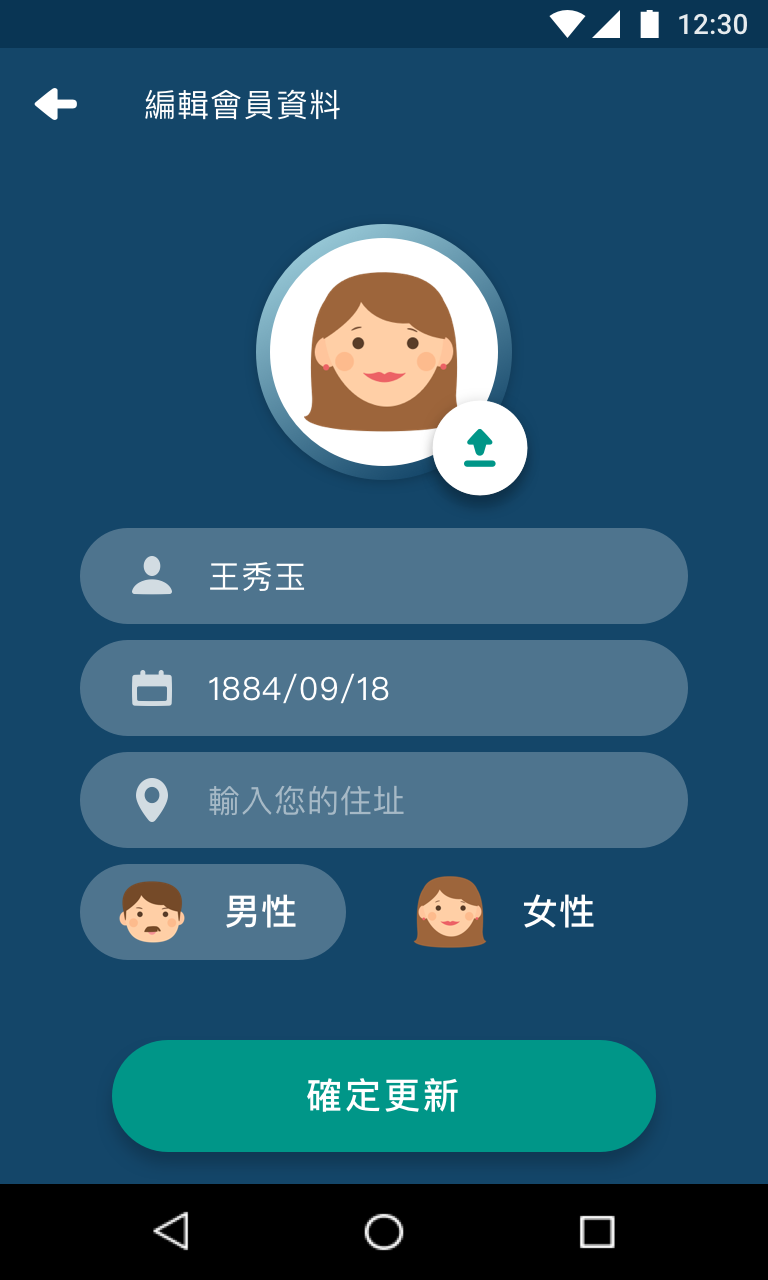
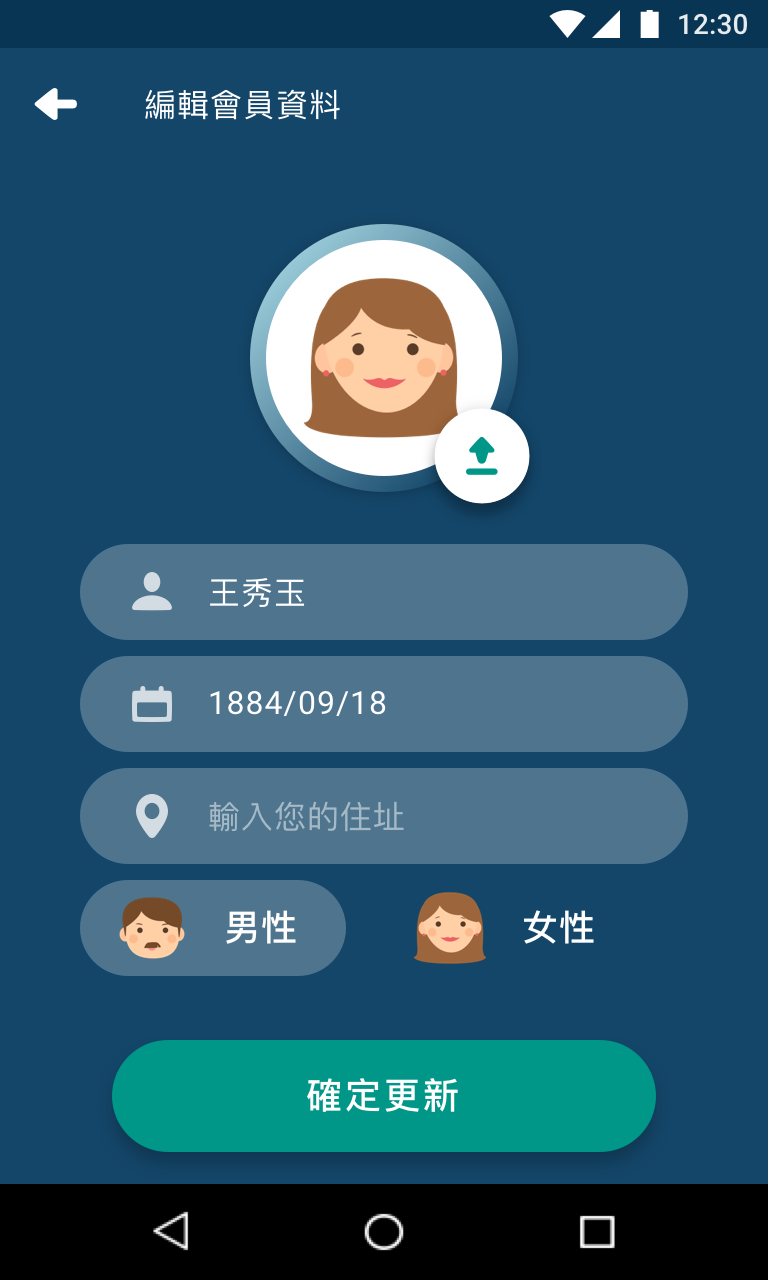
z

Changed region(s): [[0.0938, 0.1875, 0.9062, 0.7812]]

diff --git a/page_user_edituser/index.html b/page_user_edituser/index.html
@@ -1656,7 +1656,7 @@ I18N['zh-tw'] = {
     init.prototype = SMApp.fn;
     window.SMApp = SMApp;
 })(window);
-$(function(){ SMApp({"scale":"1","unit":"px","colorFormat":"color-hex","artboards":[{"layers":[{"objectID":"4908BAA1-B5B5-448D-A6A3-09651A55BB1C","type":"shape","name":"nav_bar","rect":{"x":0,"y":592,"width":384,"height":48},"rotation":0,"radius":0,"borders":[],"fills":[],"shadows":[],"opacity":1,"styleName":""},{"objectID":"4DE1F471-11DC-463F-9694-F1DDB161E0E0","type":"shape","name":"Bg_darkBlue","rect":{"x":0,"y":24,"width":384,"height":568},"rotation":0,"radius":0,"borders":[],"fills":[{"fillType":"color","color":{"r":20,"g":70,"b":105,"a":1,"color-hex":"#144669 100%","argb-hex":"#FF144669","css-rgba":"rgba(20,70,105,1)","ui-color":"(r:0.08 g:0.27 b:0.41 a:1.00)"}}],"shadows":[],"opacity":1,"styleName":"","css":["background: #144669;"]},{"objectID":"A15F91AF-730A-4074-A24E-D45C4149D91A","type":"symbol","name":"Bar/Header","rect":{"x":0,"y":24,"width":384,"height":56},"rotation":0,"radius":0,"borders":[],"fills":[],"shadows":[],"opacity":1,"styleName":""},{"objectID":"F7567344-B48B-42DA-A3CC-50CE141C64CD","type":"shape","name":"bg","rect":{"x":0,"y":24,"width":384,"height":56},"rotation":0,"radius":0,"borders":[],"fills":[{"fillType":"color","color":{"r":20,"g":70,"b":105,"a":1,"color-hex":"#144669 100%","argb-hex":"#FF144669","css-rgba":"rgba(20,70,105,1)","ui-color":"(r:0.08 g:0.27 b:0.41 a:1.00)"}}],"shadows":[],"opacity":1,"styleName":"","css":["background: #144669;"]},{"objectID":"583EEB53-0298-4464-92ED-E6D612EDCB21","type":"symbol","name":"Icon/menu","rect":{"x":16,"y":40,"width":24,"height":24},"rotation":0,"radius":0,"borders":[],"fills":[],"shadows":[],"opacity":1,"styleName":"","exportable":[{"name":"Icon/back","format":"png","path":"Icon/back.png"}]},{"objectID":"CC57C13F-2C1C-4E02-B459-765E72797C45","type":"text","name":"Title","rect":{"x":72,"y":40,"width":107.3,"height":24},"rotation":0,"radius":0,"borders":[],"fills":[],"shadows":[],"opacity":1,"styleName":"White/16px regular","content":"編輯會員資料","color":{"r":255,"g":255,"b":255,"a":1,"color-hex":"#FFFFFF 100%","argb-hex":"#FFFFFFFF","css-rgba":"rgba(255,255,255,1)","ui-color":"(r:1.00 g:1.00 b:1.00 a:1.00)"},"fontSize":16,"fontFace":"Roboto-Regular","textAlign":"left","letterSpacing":0.5,"lineHeight":24,"css":["font-family: Roboto-Regular;","font-size: 16px;","color: #FFFFFF;","letter-spacing: 0.5px;","line-height: 24px;"]},{"objectID":"1C65E827-1983-494A-9264-26E3A23B5296","type":"shape","name":"Oval 2","rect":{"x":128,"y":112,"width":128,"height":128},"rotation":0,"radius":0,"borders":[{"fillType":"gradient","position":"inside","thickness":7,"gradient":{"type":"linear","from":{"x":0.2105417864799648,"y":0.04347795203830529},"to":{"x":0.751580703257261,"y":0.9338212250992051},"colorStops":[{"color":{"r":154,"g":203,"b":217,"a":1,"color-hex":"#9ACBD9 100%","argb-hex":"#FF9ACBD9","css-rgba":"rgba(154,203,217,1)","ui-color":"(r:0.60 g:0.80 b:0.85 a:1.00)"},"position":0},{"color":{"r":20,"g":70,"b":105,"a":1,"color-hex":"#144669 100%","argb-hex":"#FF144669","css-rgba":"rgba(20,70,105,1)","ui-color":"(r:0.08 g:0.27 b:0.41 a:1.00)"},"position":1}]}}],"fills":[{"fillType":"color","color":{"r":255,"g":255,"b":255,"a":1,"color-hex":"#FFFFFF 100%","argb-hex":"#FFFFFFFF","css-rgba":"rgba(255,255,255,1)","ui-color":"(r:1.00 g:1.00 b:1.00 a:1.00)"}}],"shadows":[{"type":"outer","offsetX":0,"offsetY":1,"blurRadius":6,"spread":0,"color":{"r":0,"g":0,"b":0,"a":0.2,"color-hex":"#000000 20%","argb-hex":"#33000000","css-rgba":"rgba(0,0,0,0.2)","ui-color":"(r:0.00 g:0.00 b:0.00 a:0.20)"}}],"opacity":1,"styleName":"","css":["background: #FFFFFF;","box-shadow: 0 1px 6px 0 rgba(0,0,0,0.20);"]},{"objectID":"92804F20-E81E-4C31-A987-F2984B817F41","type":"slice","name":"avatar_mother copy","rect":{"x":152,"y":136,"width":80,"height":80},"exportable":[{"name":"avatar_mother copy","format":"png","path":"avatar_mother copy.png"}]},{"objectID":"EE8C22F1-2035-4894-B105-F83EACF10202","type":"shape","name":"Oval","rect":{"x":216,"y":200,"width":48,"height":48},"rotation":0,"radius":0,"borders":[{"fillType":"gradient","position":"inside","thickness":0.5,"gradient":{"type":"linear","from":{"x":0.5,"y":0},"to":{"x":0.5,"y":0.9902144451530612},"colorStops":[{"color":{"r":0,"g":0,"b":0,"a":0,"color-hex":"#000000 0%","argb-hex":"#00000000","css-rgba":"rgba(0,0,0,0)","ui-color":"(r:0.00 g:0.00 b:0.00 a:0.00)"},"position":0},{"color":{"r":0,"g":0,"b":0,"a":0.02,"color-hex":"#000000 2%","argb-hex":"#05000000","css-rgba":"rgba(0,0,0,0.02)","ui-color":"(r:0.00 g:0.00 b:0.00 a:0.02)"},"position":0.8},{"color":{"r":0,"g":0,"b":0,"a":0.04,"color-hex":"#000000 4%","argb-hex":"#0A000000","css-rgba":"rgba(0,0,0,0.04)","ui-color":"(r:0.00 g:0.00 b:0.00 a:0.04)"},"position":1}]}},{"fillType":"gradient","position":"inside","thickness":0.5,"gradient":{"type":"linear","from":{"x":0.5,"y":0},"to":{"x":0.5,"y":1},"colorStops":[{"color":{"r":255,"g":255,"b":255,"a":0.12,"color-hex":"#FFFFFF 12%","argb-hex":"#1FFFFFFF","css-rgba":"rgba(255,255,255,0.12)","ui-color":"(r:1.00 g:1.00 b:1.00 a:0.12)"},"position":0},{"color":{"r":255,"g":255,"b":255,"a":0.06,"color-hex":"#FFFFFF 6%","argb-hex":"#0FFFFFFF","css-rgba":"rgba(255,255,255,0.06)","ui-color":"(r:1.00 g:1.00 b:1.00 a:0.06)"},"position":0.2},{"color":{"r":255,"g":255,"b":255,"a":0,"color-hex":"#FFFFFF 0%","argb-hex":"#00FFFFFF","css-rgba":"rgba(255,255,255,0)","ui-color":"(r:1.00 g:1.00 b:1.00 a:0.00)"},"position":1}]}}],"fills":[{"fillType":"color","color":{"r":255,"g":255,"b":255,"a":1,"color-hex":"#FFFFFF 100%","argb-hex":"#FFFFFFFF","css-rgba":"rgba(255,255,255,1)","ui-color":"(r:1.00 g:1.00 b:1.00 a:1.00)"}}],"shadows":[{"type":"outer","offsetX":0,"offsetY":6,"blurRadius":6,"spread":0,"color":{"r":0,"g":0,"b":0,"a":0.24,"color-hex":"#000000 24%","argb-hex":"#3D000000","css-rgba":"rgba(0,0,0,0.24)","ui-color":"(r:0.00 g:0.00 b:0.00 a:0.24)"}},{"type":"outer","offsetX":0,"offsetY":0,"blurRadius":6,"spread":0,"color":{"r":0,"g":0,"b":0,"a":0.12,"color-hex":"#000000 12%","argb-hex":"#1F000000","css-rgba":"rgba(0,0,0,0.12)","ui-color":"(r:0.00 g:0.00 b:0.00 a:0.12)"}}],"opacity":1,"styleName":"","css":["background: #FFFFFF;","box-shadow: 0 0 6px 0 rgba(0,0,0,0.12), 0 6px 6px 0 rgba(0,0,0,0.24);"]},{"objectID":"89DEE2A5-F687-40A7-B832-7523F9C4FF41","type":"symbol","name":"Icon/upload","rect":{"x":230.4,"y":214.4,"width":19.2,"height":19.2},"rotation":0,"radius":0,"borders":[],"fills":[],"shadows":[],"opacity":1,"styleName":"","exportable":[{"name":"Icon/upload","format":"png","path":"Icon/upload.png"}]},{"objectID":"32A176FE-EA24-4100-8755-8492ADAEE674","type":"shape","name":"Bg_selected","rect":{"x":40,"y":432,"width":133,"height":48},"rotation":0,"radius":100,"borders":[],"fills":[{"fillType":"color","color":{"r":255,"g":255,"b":255,"a":0.2499999850988388,"color-hex":"#FFFFFF 25%","argb-hex":"#40FFFFFF","css-rgba":"rgba(255,255,255,0.25)","ui-color":"(r:1.00 g:1.00 b:1.00 a:0.25)"}}],"shadows":[],"opacity":1,"styleName":"","css":["background: rgba(255,255,255,0.25);","border-radius: 100px;"]},{"objectID":"D53CF4A1-F369-45F1-8687-6F057DDEE931","type":"text","name":"男性","rect":{"x":112,"y":444,"width":37,"height":24},"rotation":0,"radius":0,"borders":[],"fills":[],"shadows":[],"opacity":1,"styleName":"","content":"男性","color":{"r":255,"g":255,"b":255,"a":1,"color-hex":"#FFFFFF 100%","argb-hex":"#FFFFFFFF","css-rgba":"rgba(255,255,255,1)","ui-color":"(r:1.00 g:1.00 b:1.00 a:1.00)"},"fontSize":18,"fontFace":"PingFangTC-Medium","textAlign":"left","letterSpacing":0.5,"lineHeight":24,"css":["font-family: PingFangTC-Medium;","font-size: 18px;","color: #FFFFFF;","letter-spacing: 0.5px;","line-height: 24px;"]},{"objectID":"437D31D7-4787-4F90-91BD-768E9DBFBBB4","type":"slice","name":"img_father","rect":{"x":56,"y":436,"width":40,"height":40},"exportable":[{"name":"img_father","format":"png","path":"img_father.png"}]},{"objectID":"530E0CED-8613-4856-BAB1-3BBEC8E55846","type":"shape","name":"Bg_selected","rect":{"x":189,"y":432,"width":133,"height":48},"rotation":0,"radius":100,"borders":[],"fills":[{"fillType":"color","color":{"r":255,"g":255,"b":255,"a":0,"color-hex":"#FFFFFF 0%","argb-hex":"#00FFFFFF","css-rgba":"rgba(255,255,255,0)","ui-color":"(r:1.00 g:1.00 b:1.00 a:0.00)"}}],"shadows":[],"opacity":1,"styleName":"","css":["background: rgba(255,255,255,0.00);","border-radius: 100px;"]},{"objectID":"0EBA7450-27FD-44FF-9669-4F13C617E69A","type":"text","name":"女性","rect":{"x":261,"y":444,"width":37,"height":24},"rotation":0,"radius":0,"borders":[],"fills":[],"shadows":[],"opacity":1,"styleName":"","content":"女性","color":{"r":255,"g":255,"b":255,"a":1,"color-hex":"#FFFFFF 100%","argb-hex":"#FFFFFFFF","css-rgba":"rgba(255,255,255,1)","ui-color":"(r:1.00 g:1.00 b:1.00 a:1.00)"},"fontSize":18,"fontFace":"PingFangTC-Medium","textAlign":"left","letterSpacing":0.5,"lineHeight":24,"css":["font-family: PingFangTC-Medium;","font-size: 18px;","color: #FFFFFF;","letter-spacing: 0.5px;","line-height: 24px;"]},{"objectID":"693B6B83-6463-47B7-ACCB-B9F1AB380A38","type":"slice","name":"img_girl","rect":{"x":205,"y":436,"width":40,"height":40},"exportable":[{"name":"img_girl","format":"png","path":"img_girl.png"}]},{"objectID":"3CF3CC99-B70B-489A-9FE0-0EA36B4CF639","type":"symbol","name":"Input/icon+text/default","rect":{"x":40,"y":264,"width":304,"height":48},"rotation":0,"radius":0,"borders":[],"fills":[],"shadows":[],"opacity":1,"styleName":""},{"objectID":"3B80A1D6-B5AD-4798-BA00-FE5EEF576B4F","type":"shape","name":"Bg_input","rect":{"x":40,"y":264,"width":304,"height":48},"rotation":0,"radius":100,"borders":[],"fills":[{"fillType":"color","color":{"r":255,"g":255,"b":255,"a":0.25,"color-hex":"#FFFFFF 25%","argb-hex":"#40FFFFFF","css-rgba":"rgba(255,255,255,0.25)","ui-color":"(r:1.00 g:1.00 b:1.00 a:0.25)"}}],"shadows":[],"opacity":1,"styleName":"","css":["background: rgba(255,255,255,0.25);","border-radius: 100px;"]},{"objectID":"D501D032-617B-4BA1-92FB-1DF1673D12D8","type":"text","name":"Text_default","rect":{"x":104,"y":276,"width":50,"height":24},"rotation":0,"radius":0,"borders":[],"fills":[],"shadows":[],"opacity":1,"styleName":"","content":"王秀玉","color":{"r":255,"g":255,"b":255,"a":1,"color-hex":"#FFFFFF 100%","argb-hex":"#FFFFFFFF","css-rgba":"rgba(255,255,255,1)","ui-color":"(r:1.00 g:1.00 b:1.00 a:1.00)"},"fontSize":16,"fontFace":"PingFangTC-Regular","textAlign":"left","letterSpacing":0.5,"lineHeight":24,"css":["font-family: PingFangTC-Regular;","font-size: 16px;","color: #FFFFFF;","letter-spacing: 0.5px;","line-height: 24px;"]},{"objectID":"1E2AD092-03B3-434E-8F95-86852CD7C4F4","type":"symbol","name":"Icon/person","rect":{"x":64,"y":276,"width":24,"height":24},"rotation":0,"radius":0,"borders":[],"fills":[],"shadows":[],"opacity":0.75,"styleName":"","css":["opacity: 0.75;"],"exportable":[{"name":"Icon/person","format":"png","path":"Icon/person.png"}]},{"objectID":"3CF3CC99-B70B-489A-9FE0-0EA36B4CF639","type":"symbol","name":"Input/icon+text/default Copy","rect":{"x":40,"y":320,"width":304,"height":48},"rotation":0,"radius":0,"borders":[],"fills":[],"shadows":[],"opacity":1,"styleName":""},{"objectID":"3B80A1D6-B5AD-4798-BA00-FE5EEF576B4F","type":"shape","name":"Bg_input","rect":{"x":40,"y":320,"width":304,"height":48},"rotation":0,"radius":100,"borders":[],"fills":[{"fillType":"color","color":{"r":255,"g":255,"b":255,"a":0.25,"color-hex":"#FFFFFF 25%","argb-hex":"#40FFFFFF","css-rgba":"rgba(255,255,255,0.25)","ui-color":"(r:1.00 g:1.00 b:1.00 a:0.25)"}}],"shadows":[],"opacity":1,"styleName":"","css":["background: rgba(255,255,255,0.25);","border-radius: 100px;"]},{"objectID":"D501D032-617B-4BA1-92FB-1DF1673D12D8","type":"text","name":"Text_default","rect":{"x":104,"y":332,"width":92,"height":24},"rotation":0,"radius":0,"borders":[],"fills":[],"shadows":[],"opacity":1,"styleName":"","content":"1884/09/18","color":{"r":255,"g":255,"b":255,"a":1,"color-hex":"#FFFFFF 100%","argb-hex":"#FFFFFFFF","css-rgba":"rgba(255,255,255,1)","ui-color":"(r:1.00 g:1.00 b:1.00 a:1.00)"},"fontSize":16,"fontFace":"PingFangTC-Regular","textAlign":"left","letterSpacing":0.5,"lineHeight":24,"css":["font-family: PingFangTC-Regular;","font-size: 16px;","color: #FFFFFF;","letter-spacing: 0.5px;","line-height: 24px;"]},{"objectID":"7F0D17CB-E802-4210-AAA2-933E3AF012D9","type":"symbol","name":"Icon/person","rect":{"x":64,"y":332,"width":24,"height":24},"rotation":0,"radius":0,"borders":[],"fills":[],"shadows":[],"opacity":0.75,"styleName":"","css":["opacity: 0.75;"],"exportable":[{"name":"Icon/calender","format":"png","path":"Icon/calender.png"}]},{"objectID":"BF1D3D7E-54DC-400A-88F6-0B673BF03D0D","type":"symbol","name":"Input/icon+text/default Copy 2","rect":{"x":40,"y":376,"width":304,"height":48},"rotation":0,"radius":0,"borders":[],"fills":[],"shadows":[],"opacity":1,"styleName":""},{"objectID":"87D83326-6E0F-4EEA-B312-F28E05B72863","type":"shape","name":"Bg_input","rect":{"x":40,"y":376,"width":304,"height":48},"rotation":0,"radius":100,"borders":[],"fills":[{"fillType":"color","color":{"r":255,"g":255,"b":255,"a":0.25,"color-hex":"#FFFFFF 25%","argb-hex":"#40FFFFFF","css-rgba":"rgba(255,255,255,0.25)","ui-color":"(r:1.00 g:1.00 b:1.00 a:0.25)"}}],"shadows":[],"opacity":1,"styleName":"","css":["background: rgba(255,255,255,0.25);","border-radius: 100px;"]},{"objectID":"B507ECFD-4F80-4E1A-B5AC-7AC48E3BCA7C","type":"text","name":"Text_default","rect":{"x":104,"y":388,"width":99,"height":24},"rotation":0,"radius":0,"borders":[],"fills":[],"shadows":[],"opacity":0.5,"styleName":"","content":"輸入您的住址","color":{"r":255,"g":255,"b":255,"a":1,"color-hex":"#FFFFFF 100%","argb-hex":"#FFFFFFFF","css-rgba":"rgba(255,255,255,1)","ui-color":"(r:1.00 g:1.00 b:1.00 a:1.00)"},"fontSize":16,"fontFace":"Roboto-Regular","textAlign":"left","letterSpacing":0.5,"lineHeight":24,"css":["opacity: 0.5;","font-family: Roboto-Regular;","font-size: 16px;","color: #FFFFFF;","letter-spacing: 0.5px;","line-height: 24px;"]},{"objectID":"FB231F2C-28DD-4E3E-8AAF-1BD6FA3DA07F","type":"symbol","name":"Icon/person","rect":{"x":64,"y":388,"width":24,"height":24},"rotation":0,"radius":0,"borders":[],"fills":[],"shadows":[],"opacity":0.75,"styleName":"","css":["opacity: 0.75;"],"exportable":[{"name":"Icon/address","format":"png","path":"Icon/address.png"}]},{"objectID":"A8AFB92A-E60C-4A13-813F-C15EA00B9C19","type":"symbol","name":"Btn/green","rect":{"x":56,"y":520,"width":272,"height":56},"rotation":0,"radius":0,"borders":[],"fills":[],"shadows":[],"opacity":1,"styleName":""},{"objectID":"0C65FCC8-A735-40E2-A957-7A61A70AAF78","type":"shape","name":"Rectangle 13","rect":{"x":56,"y":520,"width":272,"height":56},"rotation":0,"radius":100,"borders":[],"fills":[{"fillType":"color","color":{"r":0,"g":150,"b":136,"a":1,"color-hex":"#009688 100%","argb-hex":"#FF009688","css-rgba":"rgba(0,150,136,1)","ui-color":"(r:0.00 g:0.59 b:0.53 a:1.00)"}}],"shadows":[{"type":"outer","offsetX":0,"offsetY":6,"blurRadius":8,"spread":0,"color":{"r":0,"g":0,"b":0,"a":0.2,"color-hex":"#000000 20%","argb-hex":"#33000000","css-rgba":"rgba(0,0,0,0.2)","ui-color":"(r:0.00 g:0.00 b:0.00 a:0.20)"}}],"opacity":1,"styleName":"","css":["background: #009688;","box-shadow: 0 6px 8px 0 rgba(0,0,0,0.20);","border-radius: 100px;"]},{"objectID":"56B2AD4A-5A84-451C-91D2-E6EBE92EE7FF","type":"text","name":"繼續下一步","rect":{"x":153,"y":536,"width":78,"height":24},"rotation":0,"radius":0,"borders":[],"fills":[],"shadows":[],"opacity":1,"styleName":"","content":"確定更新","color":{"r":255,"g":255,"b":255,"a":1,"color-hex":"#FFFFFF 100%","argb-hex":"#FFFFFFFF","css-rgba":"rgba(255,255,255,1)","ui-color":"(r:1.00 g:1.00 b:1.00 a:1.00)"},"fontSize":18,"fontFace":"Roboto-Medium","textAlign":"center","letterSpacing":1.5,"lineHeight":24,"css":["font-family: Roboto-Medium;","font-size: 18px;","color: #FFFFFF;","letter-spacing: 1.5px;","line-height: 24px;"]},{"objectID":"1D9038E2-0B4B-4B89-8FD6-5779EE9AC07C","type":"symbol","name":"Bars/Status bar","rect":{"x":0,"y":0,"width":384,"height":24},"rotation":0,"radius":0,"borders":[],"fills":[],"shadows":[],"opacity":1,"styleName":""},{"objectID":"92B9CC3F-C79D-4213-845D-358967D93061","type":"shape","name":"status bar bg","rect":{"x":0,"y":0,"width":384,"height":24},"rotation":0,"radius":0,"borders":[],"fills":[{"fillType":"color","color":{"r":9,"g":53,"b":84,"a":1,"color-hex":"#093554 100%","argb-hex":"#FF093554","css-rgba":"rgba(9,53,84,1)","ui-color":"(r:0.04 g:0.21 b:0.33 a:1.00)"}}],"shadows":[],"opacity":1,"styleName":"","css":["background: #093554;"]},{"objectID":"C721A454-854E-449C-85BC-A123A8EC1018","type":"text","name":"12:30","rect":{"x":338.3,"y":4,"width":36,"height":16},"rotation":0,"radius":0,"borders":[],"fills":[{"fillType":"color","color":{"r":255,"g":255,"b":255,"a":1,"color-hex":"#FFFFFF 100%","argb-hex":"#FFFFFFFF","css-rgba":"rgba(255,255,255,1)","ui-color":"(r:1.00 g:1.00 b:1.00 a:1.00)"}}],"shadows":[],"opacity":1,"styleName":"","content":"12:30","color":{"r":0,"g":0,"b":0,"a":1,"color-hex":"#000000 100%","argb-hex":"#FF000000","css-rgba":"rgba(0,0,0,1)","ui-color":"(r:0.00 g:0.00 b:0.00 a:1.00)"},"fontSize":14,"fontFace":"Roboto-Medium","textAlign":"right","letterSpacing":0,"lineHeight":16,"css":["font-family: Roboto-Medium;","font-size: 14px;","color: #000000;"]},{"objectID":"EA577749-950A-4B95-AE91-1471809E4D5C","type":"shape","name":"bounds","rect":{"x":317.3,"y":4,"width":16,"height":16},"rotation":0,"radius":0,"borders":[],"fills":[],"shadows":[],"opacity":1,"styleName":""},{"objectID":"04509B03-1C82-4E70-A60B-563CB5EFDEED","type":"shape","name":"Shape","rect":{"x":320.3,"y":5,"width":9,"height":14},"rotation":0,"radius":0,"borders":[],"fills":[{"fillType":"color","color":{"r":255,"g":255,"b":255,"a":1,"color-hex":"#FFFFFF 100%","argb-hex":"#FFFFFFFF","css-rgba":"rgba(255,255,255,1)","ui-color":"(r:1.00 g:1.00 b:1.00 a:1.00)"}}],"shadows":[],"opacity":1,"styleName":"","css":["background: #FFFFFF;"]},{"objectID":"7EBD03E0-7CF8-4DF4-84D6-87FC9A84FB1E","type":"shape","name":"bounds","rect":{"x":296,"y":4,"width":16,"height":16},"rotation":0,"radius":0,"borders":[],"fills":[],"shadows":[],"opacity":1,"styleName":""},{"objectID":"CBB32A07-0D54-40D4-A69F-2B64CBF676E5","type":"shape","name":"Shape","rect":{"x":296,"y":5,"width":14,"height":14},"rotation":0,"radius":0,"borders":[],"fills":[{"fillType":"color","color":{"r":255,"g":255,"b":255,"a":1,"color-hex":"#FFFFFF 100%","argb-hex":"#FFFFFFFF","css-rgba":"rgba(255,255,255,1)","ui-color":"(r:1.00 g:1.00 b:1.00 a:1.00)"}}],"shadows":[],"opacity":1,"styleName":"","css":["background: #FFFFFF;"]},{"objectID":"1C63ECF8-A21C-468D-A2E0-36C0B9689898","type":"shape","name":"bounds","rect":{"x":275.7,"y":4,"width":16,"height":16},"rotation":0,"radius":0,"borders":[],"fills":[],"shadows":[],"opacity":1,"styleName":""},{"objectID":"7A5D021E-5761-4B5B-A926-8A58D348CA3B","type":"shape","name":"Shape","rect":{"x":274.7,"y":5,"width":18,"height":14},"rotation":0,"radius":0,"borders":[],"fills":[{"fillType":"color","color":{"r":255,"g":255,"b":255,"a":1,"color-hex":"#FFFFFF 100%","argb-hex":"#FFFFFFFF","css-rgba":"rgba(255,255,255,1)","ui-color":"(r:1.00 g:1.00 b:1.00 a:1.00)"}}],"shadows":[],"opacity":1,"styleName":"","css":["background: #FFFFFF;"]}],"notes":[],"pageName":"Page 1","pageObjectID":"D526FE0C-BCEE-4C14-AAE0-85B6CF2F2B53","name":"會員專區-edit","slug":"page-1-會員專區-edit","objectID":"A12A63E4-41D7-454D-8515-6F04B757307C","width":384,"height":640,"imagePath":"preview/page-1-%E6%9C%83%E5%93%A1%E5%B0%88%E5%8D%80-edit.png"}],"slices":[{"name":"Icon/menu","objectID":"583EEB53-0298-4464-92ED-E6D612EDCB21","rect":{"x":16,"y":40,"width":24,"height":24},"exportable":[{"name":"Icon/back","format":"png","path":"Icon/back.png"}]},{"name":"avatar_mother copy","objectID":"92804F20-E81E-4C31-A987-F2984B817F41","rect":{"x":152,"y":136,"width":80,"height":80},"exportable":[{"name":"avatar_mother copy","format":"png","path":"avatar_mother copy.png"}]},{"name":"Icon/upload","objectID":"89DEE2A5-F687-40A7-B832-7523F9C4FF41","rect":{"x":230.4,"y":214.4,"width":19.2,"height":19.2},"exportable":[{"name":"Icon/upload","format":"png","path":"Icon/upload.png"}]},{"name":"img_father","objectID":"437D31D7-4787-4F90-91BD-768E9DBFBBB4","rect":{"x":56,"y":436,"width":40,"height":40},"exportable":[{"name":"img_father","format":"png","path":"img_father.png"}]},{"name":"img_girl","objectID":"693B6B83-6463-47B7-ACCB-B9F1AB380A38","rect":{"x":205,"y":436,"width":40,"height":40},"exportable":[{"name":"img_girl","format":"png","path":"img_girl.png"}]},{"name":"Icon/person","objectID":"1E2AD092-03B3-434E-8F95-86852CD7C4F4","rect":{"x":64,"y":276,"width":24,"height":24},"exportable":[{"name":"Icon/person","format":"png","path":"Icon/person.png"}]},{"name":"Icon/person","objectID":"7F0D17CB-E802-4210-AAA2-933E3AF012D9","rect":{"x":64,"y":332,"width":24,"height":24},"exportable":[{"name":"Icon/calender","format":"png","path":"Icon/calender.png"}]},{"name":"Icon/person","objectID":"FB231F2C-28DD-4E3E-8AAF-1BD6FA3DA07F","rect":{"x":64,"y":388,"width":24,"height":24},"exportable":[{"name":"Icon/address","format":"png","path":"Icon/address.png"}]}],"colors":[]}) });
+$(function(){ SMApp({"scale":"1","unit":"px","colorFormat":"color-hex","artboards":[{"layers":[{"objectID":"4908BAA1-B5B5-448D-A6A3-09651A55BB1C","type":"shape","name":"nav_bar","rect":{"x":0,"y":592,"width":384,"height":48},"rotation":0,"radius":0,"borders":[],"fills":[],"shadows":[],"opacity":1,"styleName":""},{"objectID":"4DE1F471-11DC-463F-9694-F1DDB161E0E0","type":"shape","name":"Bg_darkBlue","rect":{"x":0,"y":24,"width":384,"height":568},"rotation":0,"radius":0,"borders":[],"fills":[{"fillType":"color","color":{"r":20,"g":70,"b":105,"a":1,"color-hex":"#144669 100%","argb-hex":"#FF144669","css-rgba":"rgba(20,70,105,1)","ui-color":"(r:0.08 g:0.27 b:0.41 a:1.00)"}}],"shadows":[],"opacity":1,"styleName":"","css":["background: #144669;"]},{"objectID":"A15F91AF-730A-4074-A24E-D45C4149D91A","type":"symbol","name":"Bar/Header","rect":{"x":0,"y":24,"width":384,"height":56},"rotation":0,"radius":0,"borders":[],"fills":[],"shadows":[],"opacity":1,"styleName":""},{"objectID":"F7567344-B48B-42DA-A3CC-50CE141C64CD","type":"shape","name":"bg","rect":{"x":0,"y":24,"width":384,"height":56},"rotation":0,"radius":0,"borders":[],"fills":[{"fillType":"color","color":{"r":20,"g":70,"b":105,"a":1,"color-hex":"#144669 100%","argb-hex":"#FF144669","css-rgba":"rgba(20,70,105,1)","ui-color":"(r:0.08 g:0.27 b:0.41 a:1.00)"}}],"shadows":[],"opacity":1,"styleName":"","css":["background: #144669;"]},{"objectID":"583EEB53-0298-4464-92ED-E6D612EDCB21","type":"symbol","name":"Icon/menu","rect":{"x":16,"y":40,"width":24,"height":24},"rotation":0,"radius":0,"borders":[],"fills":[],"shadows":[],"opacity":1,"styleName":"","exportable":[{"name":"Icon/back","format":"png","path":"Icon/back.png"}]},{"objectID":"CC57C13F-2C1C-4E02-B459-765E72797C45","type":"text","name":"Title","rect":{"x":72,"y":40,"width":107.3,"height":24},"rotation":0,"radius":0,"borders":[],"fills":[],"shadows":[],"opacity":1,"styleName":"White/16px regular","content":"編輯會員資料","color":{"r":255,"g":255,"b":255,"a":1,"color-hex":"#FFFFFF 100%","argb-hex":"#FFFFFFFF","css-rgba":"rgba(255,255,255,1)","ui-color":"(r:1.00 g:1.00 b:1.00 a:1.00)"},"fontSize":16,"fontFace":"Roboto-Regular","textAlign":"left","letterSpacing":0.5,"lineHeight":24,"css":["font-family: Roboto-Regular;","font-size: 16px;","color: #FFFFFF;","letter-spacing: 0.5px;","line-height: 24px;"]},{"objectID":"1C65E827-1983-494A-9264-26E3A23B5296","type":"shape","name":"Oval 2","rect":{"x":125,"y":112,"width":134,"height":134},"rotation":0,"radius":0,"borders":[],"fills":[{"fillType":"gradient","gradient":{"type":"linear","from":{"x":0.10949180210135268,"y":0.15492064299931485},"to":{"x":0.835922619088457,"y":0.8867059868929594},"colorStops":[{"color":{"r":154,"g":203,"b":217,"a":1,"color-hex":"#9ACBD9 100%","argb-hex":"#FF9ACBD9","css-rgba":"rgba(154,203,217,1)","ui-color":"(r:0.60 g:0.80 b:0.85 a:1.00)"},"position":0},{"color":{"r":20,"g":70,"b":105,"a":1,"color-hex":"#144669 100%","argb-hex":"#FF144669","css-rgba":"rgba(20,70,105,1)","ui-color":"(r:0.08 g:0.27 b:0.41 a:1.00)"},"position":1}]}}],"shadows":[{"type":"outer","offsetX":0,"offsetY":1,"blurRadius":6,"spread":0,"color":{"r":0,"g":0,"b":0,"a":0.2,"color-hex":"#000000 20%","argb-hex":"#33000000","css-rgba":"rgba(0,0,0,0.2)","ui-color":"(r:0.00 g:0.00 b:0.00 a:0.20)"}}],"opacity":1,"styleName":"","css":["background-image: linear-gradient(-135deg, #9ACBD9 0%, #144669 100%);","box-shadow: 0 1px 6px 0 rgba(0,0,0,0.20);"]},{"objectID":"050B2930-92B3-47FC-BBB6-9AF41961619D","type":"slice","name":"Group","rect":{"x":133,"y":120,"width":118,"height":118},"exportable":[{"name":"Group","format":"png","path":"Group.png"}]},{"objectID":"EE8C22F1-2035-4894-B105-F83EACF10202","type":"shape","name":"Oval","rect":{"x":217,"y":204,"width":48,"height":48},"rotation":0,"radius":0,"borders":[{"fillType":"gradient","position":"inside","thickness":0.5,"gradient":{"type":"linear","from":{"x":0.5,"y":0},"to":{"x":0.5,"y":0.9902144451530612},"colorStops":[{"color":{"r":0,"g":0,"b":0,"a":0,"color-hex":"#000000 0%","argb-hex":"#00000000","css-rgba":"rgba(0,0,0,0)","ui-color":"(r:0.00 g:0.00 b:0.00 a:0.00)"},"position":0},{"color":{"r":0,"g":0,"b":0,"a":0.02,"color-hex":"#000000 2%","argb-hex":"#05000000","css-rgba":"rgba(0,0,0,0.02)","ui-color":"(r:0.00 g:0.00 b:0.00 a:0.02)"},"position":0.8},{"color":{"r":0,"g":0,"b":0,"a":0.04,"color-hex":"#000000 4%","argb-hex":"#0A000000","css-rgba":"rgba(0,0,0,0.04)","ui-color":"(r:0.00 g:0.00 b:0.00 a:0.04)"},"position":1}]}},{"fillType":"gradient","position":"inside","thickness":0.5,"gradient":{"type":"linear","from":{"x":0.5,"y":0},"to":{"x":0.5,"y":1},"colorStops":[{"color":{"r":255,"g":255,"b":255,"a":0.12,"color-hex":"#FFFFFF 12%","argb-hex":"#1FFFFFFF","css-rgba":"rgba(255,255,255,0.12)","ui-color":"(r:1.00 g:1.00 b:1.00 a:0.12)"},"position":0},{"color":{"r":255,"g":255,"b":255,"a":0.06,"color-hex":"#FFFFFF 6%","argb-hex":"#0FFFFFFF","css-rgba":"rgba(255,255,255,0.06)","ui-color":"(r:1.00 g:1.00 b:1.00 a:0.06)"},"position":0.2},{"color":{"r":255,"g":255,"b":255,"a":0,"color-hex":"#FFFFFF 0%","argb-hex":"#00FFFFFF","css-rgba":"rgba(255,255,255,0)","ui-color":"(r:1.00 g:1.00 b:1.00 a:0.00)"},"position":1}]}}],"fills":[{"fillType":"color","color":{"r":255,"g":255,"b":255,"a":1,"color-hex":"#FFFFFF 100%","argb-hex":"#FFFFFFFF","css-rgba":"rgba(255,255,255,1)","ui-color":"(r:1.00 g:1.00 b:1.00 a:1.00)"}}],"shadows":[{"type":"outer","offsetX":0,"offsetY":6,"blurRadius":6,"spread":0,"color":{"r":0,"g":0,"b":0,"a":0.24,"color-hex":"#000000 24%","argb-hex":"#3D000000","css-rgba":"rgba(0,0,0,0.24)","ui-color":"(r:0.00 g:0.00 b:0.00 a:0.24)"}},{"type":"outer","offsetX":0,"offsetY":0,"blurRadius":6,"spread":0,"color":{"r":0,"g":0,"b":0,"a":0.12,"color-hex":"#000000 12%","argb-hex":"#1F000000","css-rgba":"rgba(0,0,0,0.12)","ui-color":"(r:0.00 g:0.00 b:0.00 a:0.12)"}}],"opacity":1,"styleName":"","css":["background: #FFFFFF;","box-shadow: 0 0 6px 0 rgba(0,0,0,0.12), 0 6px 6px 0 rgba(0,0,0,0.24);"]},{"objectID":"89DEE2A5-F687-40A7-B832-7523F9C4FF41","type":"symbol","name":"Icon/upload","rect":{"x":231.4,"y":218.4,"width":19.2,"height":19.2},"rotation":0,"radius":0,"borders":[],"fills":[],"shadows":[],"opacity":1,"styleName":"","exportable":[{"name":"Icon/upload","format":"png","path":"Icon/upload.png"}]},{"objectID":"32A176FE-EA24-4100-8755-8492ADAEE674","type":"shape","name":"Bg_selected","rect":{"x":40,"y":440,"width":133,"height":48},"rotation":0,"radius":100,"borders":[],"fills":[{"fillType":"color","color":{"r":255,"g":255,"b":255,"a":0.2499999850988388,"color-hex":"#FFFFFF 25%","argb-hex":"#40FFFFFF","css-rgba":"rgba(255,255,255,0.25)","ui-color":"(r:1.00 g:1.00 b:1.00 a:0.25)"}}],"shadows":[],"opacity":1,"styleName":"","css":["background: rgba(255,255,255,0.25);","border-radius: 100px;"]},{"objectID":"D53CF4A1-F369-45F1-8687-6F057DDEE931","type":"text","name":"男性","rect":{"x":112,"y":452,"width":37,"height":24},"rotation":0,"radius":0,"borders":[],"fills":[],"shadows":[],"opacity":1,"styleName":"","content":"男性","color":{"r":255,"g":255,"b":255,"a":1,"color-hex":"#FFFFFF 100%","argb-hex":"#FFFFFFFF","css-rgba":"rgba(255,255,255,1)","ui-color":"(r:1.00 g:1.00 b:1.00 a:1.00)"},"fontSize":18,"fontFace":"PingFangTC-Medium","textAlign":"left","letterSpacing":0.5,"lineHeight":24,"css":["font-family: PingFangTC-Medium;","font-size: 18px;","color: #FFFFFF;","letter-spacing: 0.5px;","line-height: 24px;"]},{"objectID":"437D31D7-4787-4F90-91BD-768E9DBFBBB4","type":"slice","name":"img_father","rect":{"x":56,"y":444,"width":40,"height":40},"exportable":[{"name":"img_father","format":"png","path":"img_father.png"}]},{"objectID":"530E0CED-8613-4856-BAB1-3BBEC8E55846","type":"shape","name":"Bg_selected","rect":{"x":189,"y":440,"width":133,"height":48},"rotation":0,"radius":100,"borders":[],"fills":[{"fillType":"color","color":{"r":255,"g":255,"b":255,"a":0.25,"color-hex":"#FFFFFF 25%","argb-hex":"#40FFFFFF","css-rgba":"rgba(255,255,255,0.25)","ui-color":"(r:1.00 g:1.00 b:1.00 a:0.25)"}}],"shadows":[],"opacity":0,"styleName":"","css":["opacity: 0;","background: rgba(255,255,255,0.25);","border-radius: 100px;"]},{"objectID":"0EBA7450-27FD-44FF-9669-4F13C617E69A","type":"text","name":"女性","rect":{"x":261,"y":452,"width":37,"height":24},"rotation":0,"radius":0,"borders":[],"fills":[],"shadows":[],"opacity":1,"styleName":"","content":"女性","color":{"r":255,"g":255,"b":255,"a":1,"color-hex":"#FFFFFF 100%","argb-hex":"#FFFFFFFF","css-rgba":"rgba(255,255,255,1)","ui-color":"(r:1.00 g:1.00 b:1.00 a:1.00)"},"fontSize":18,"fontFace":"PingFangTC-Medium","textAlign":"left","letterSpacing":0.5,"lineHeight":24,"css":["font-family: PingFangTC-Medium;","font-size: 18px;","color: #FFFFFF;","letter-spacing: 0.5px;","line-height: 24px;"]},{"objectID":"693B6B83-6463-47B7-ACCB-B9F1AB380A38","type":"slice","name":"img_girl","rect":{"x":205,"y":444,"width":40,"height":40},"exportable":[{"name":"img_girl","format":"png","path":"img_girl.png"}]},{"objectID":"3CF3CC99-B70B-489A-9FE0-0EA36B4CF639","type":"symbol","name":"Input/icon+text/default","rect":{"x":40,"y":272,"width":304,"height":48},"rotation":0,"radius":0,"borders":[],"fills":[],"shadows":[],"opacity":1,"styleName":""},{"objectID":"3B80A1D6-B5AD-4798-BA00-FE5EEF576B4F","type":"shape","name":"Bg_input","rect":{"x":40,"y":272,"width":304,"height":48},"rotation":0,"radius":100,"borders":[],"fills":[{"fillType":"color","color":{"r":255,"g":255,"b":255,"a":0.25,"color-hex":"#FFFFFF 25%","argb-hex":"#40FFFFFF","css-rgba":"rgba(255,255,255,0.25)","ui-color":"(r:1.00 g:1.00 b:1.00 a:0.25)"}}],"shadows":[],"opacity":1,"styleName":"","css":["background: rgba(255,255,255,0.25);","border-radius: 100px;"]},{"objectID":"D501D032-617B-4BA1-92FB-1DF1673D12D8","type":"text","name":"Text_default","rect":{"x":104,"y":284,"width":50,"height":24},"rotation":0,"radius":0,"borders":[],"fills":[],"shadows":[],"opacity":1,"styleName":"","content":"王秀玉","color":{"r":255,"g":255,"b":255,"a":1,"color-hex":"#FFFFFF 100%","argb-hex":"#FFFFFFFF","css-rgba":"rgba(255,255,255,1)","ui-color":"(r:1.00 g:1.00 b:1.00 a:1.00)"},"fontSize":16,"fontFace":"Roboto-Regular","textAlign":"left","letterSpacing":0.5,"lineHeight":24,"css":["font-family: Roboto-Regular;","font-size: 16px;","color: #FFFFFF;","letter-spacing: 0.5px;","line-height: 24px;"]},{"objectID":"1E2AD092-03B3-434E-8F95-86852CD7C4F4","type":"symbol","name":"Icon/person","rect":{"x":64,"y":284,"width":24,"height":24},"rotation":0,"radius":0,"borders":[],"fills":[],"shadows":[],"opacity":0.75,"styleName":"","css":["opacity: 0.75;"],"exportable":[{"name":"Icon/person_white","format":"png","path":"Icon/person_white.png"}]},{"objectID":"3CF3CC99-B70B-489A-9FE0-0EA36B4CF639","type":"symbol","name":"Input/icon+text/default Copy","rect":{"x":40,"y":328,"width":304,"height":48},"rotation":0,"radius":0,"borders":[],"fills":[],"shadows":[],"opacity":1,"styleName":""},{"objectID":"3B80A1D6-B5AD-4798-BA00-FE5EEF576B4F","type":"shape","name":"Bg_input","rect":{"x":40,"y":328,"width":304,"height":48},"rotation":0,"radius":100,"borders":[],"fills":[{"fillType":"color","color":{"r":255,"g":255,"b":255,"a":0.25,"color-hex":"#FFFFFF 25%","argb-hex":"#40FFFFFF","css-rgba":"rgba(255,255,255,0.25)","ui-color":"(r:1.00 g:1.00 b:1.00 a:0.25)"}}],"shadows":[],"opacity":1,"styleName":"","css":["background: rgba(255,255,255,0.25);","border-radius: 100px;"]},{"objectID":"D501D032-617B-4BA1-92FB-1DF1673D12D8","type":"text","name":"Text_default","rect":{"x":104,"y":340,"width":91,"height":24},"rotation":0,"radius":0,"borders":[],"fills":[],"shadows":[],"opacity":1,"styleName":"","content":"1884/09/18","color":{"r":255,"g":255,"b":255,"a":1,"color-hex":"#FFFFFF 100%","argb-hex":"#FFFFFFFF","css-rgba":"rgba(255,255,255,1)","ui-color":"(r:1.00 g:1.00 b:1.00 a:1.00)"},"fontSize":16,"fontFace":"Roboto-Regular","textAlign":"left","letterSpacing":0.5,"lineHeight":24,"css":["font-family: Roboto-Regular;","font-size: 16px;","color: #FFFFFF;","letter-spacing: 0.5px;","line-height: 24px;"]},{"objectID":"7F0D17CB-E802-4210-AAA2-933E3AF012D9","type":"symbol","name":"Icon/person","rect":{"x":64,"y":340,"width":24,"height":24},"rotation":0,"radius":0,"borders":[],"fills":[],"shadows":[],"opacity":0.75,"styleName":"","css":["opacity: 0.75;"],"exportable":[{"name":"Icon/calender","format":"png","path":"Icon/calender.png"}]},{"objectID":"BF1D3D7E-54DC-400A-88F6-0B673BF03D0D","type":"symbol","name":"Input/icon+text/default Copy 2","rect":{"x":40,"y":384,"width":304,"height":48},"rotation":0,"radius":0,"borders":[],"fills":[],"shadows":[],"opacity":1,"styleName":""},{"objectID":"87D83326-6E0F-4EEA-B312-F28E05B72863","type":"shape","name":"Bg_input","rect":{"x":40,"y":384,"width":304,"height":48},"rotation":0,"radius":100,"borders":[],"fills":[{"fillType":"color","color":{"r":255,"g":255,"b":255,"a":0.25,"color-hex":"#FFFFFF 25%","argb-hex":"#40FFFFFF","css-rgba":"rgba(255,255,255,0.25)","ui-color":"(r:1.00 g:1.00 b:1.00 a:0.25)"}}],"shadows":[],"opacity":1,"styleName":"","css":["background: rgba(255,255,255,0.25);","border-radius: 100px;"]},{"objectID":"B507ECFD-4F80-4E1A-B5AC-7AC48E3BCA7C","type":"text","name":"Text_default","rect":{"x":104,"y":396,"width":99,"height":24},"rotation":0,"radius":0,"borders":[],"fills":[],"shadows":[],"opacity":0.5,"styleName":"","content":"輸入您的住址","color":{"r":255,"g":255,"b":255,"a":1,"color-hex":"#FFFFFF 100%","argb-hex":"#FFFFFFFF","css-rgba":"rgba(255,255,255,1)","ui-color":"(r:1.00 g:1.00 b:1.00 a:1.00)"},"fontSize":16,"fontFace":"Roboto-Regular","textAlign":"left","letterSpacing":0.5,"lineHeight":24,"css":["opacity: 0.5;","font-family: Roboto-Regular;","font-size: 16px;","color: #FFFFFF;","letter-spacing: 0.5px;","line-height: 24px;"]},{"objectID":"FB231F2C-28DD-4E3E-8AAF-1BD6FA3DA07F","type":"symbol","name":"Icon/person","rect":{"x":64,"y":396,"width":24,"height":24},"rotation":0,"radius":0,"borders":[],"fills":[],"shadows":[],"opacity":0.75,"styleName":"","css":["opacity: 0.75;"],"exportable":[{"name":"Icon/address","format":"png","path":"Icon/address.png"}]},{"objectID":"A8AFB92A-E60C-4A13-813F-C15EA00B9C19","type":"symbol","name":"Btn/green","rect":{"x":56,"y":520,"width":272,"height":56},"rotation":0,"radius":0,"borders":[],"fills":[],"shadows":[],"opacity":1,"styleName":""},{"objectID":"0C65FCC8-A735-40E2-A957-7A61A70AAF78","type":"shape","name":"Rectangle 13","rect":{"x":56,"y":520,"width":272,"height":56},"rotation":0,"radius":100,"borders":[],"fills":[{"fillType":"color","color":{"r":0,"g":150,"b":136,"a":1,"color-hex":"#009688 100%","argb-hex":"#FF009688","css-rgba":"rgba(0,150,136,1)","ui-color":"(r:0.00 g:0.59 b:0.53 a:1.00)"}}],"shadows":[{"type":"outer","offsetX":0,"offsetY":6,"blurRadius":8,"spread":0,"color":{"r":0,"g":0,"b":0,"a":0.2,"color-hex":"#000000 20%","argb-hex":"#33000000","css-rgba":"rgba(0,0,0,0.2)","ui-color":"(r:0.00 g:0.00 b:0.00 a:0.20)"}}],"opacity":1,"styleName":"","css":["background: #009688;","box-shadow: 0 6px 8px 0 rgba(0,0,0,0.20);","border-radius: 100px;"]},{"objectID":"56B2AD4A-5A84-451C-91D2-E6EBE92EE7FF","type":"text","name":"繼續下一步","rect":{"x":153,"y":536,"width":78,"height":24},"rotation":0,"radius":0,"borders":[],"fills":[],"shadows":[],"opacity":1,"styleName":"","content":"確定更新","color":{"r":255,"g":255,"b":255,"a":1,"color-hex":"#FFFFFF 100%","argb-hex":"#FFFFFFFF","css-rgba":"rgba(255,255,255,1)","ui-color":"(r:1.00 g:1.00 b:1.00 a:1.00)"},"fontSize":18,"fontFace":"Roboto-Medium","textAlign":"center","letterSpacing":1.5,"lineHeight":24,"css":["font-family: Roboto-Medium;","font-size: 18px;","color: #FFFFFF;","letter-spacing: 1.5px;","line-height: 24px;"]},{"objectID":"1D9038E2-0B4B-4B89-8FD6-5779EE9AC07C","type":"symbol","name":"Bars/Status bar","rect":{"x":0,"y":0,"width":384,"height":24},"rotation":0,"radius":0,"borders":[],"fills":[],"shadows":[],"opacity":1,"styleName":""},{"objectID":"92B9CC3F-C79D-4213-845D-358967D93061","type":"shape","name":"status bar bg","rect":{"x":0,"y":0,"width":384,"height":24},"rotation":0,"radius":0,"borders":[],"fills":[{"fillType":"color","color":{"r":9,"g":53,"b":84,"a":1,"color-hex":"#093554 100%","argb-hex":"#FF093554","css-rgba":"rgba(9,53,84,1)","ui-color":"(r:0.04 g:0.21 b:0.33 a:1.00)"}}],"shadows":[],"opacity":1,"styleName":"","css":["background: #093554;"]},{"objectID":"C721A454-854E-449C-85BC-A123A8EC1018","type":"text","name":"12:30","rect":{"x":338.3,"y":4,"width":36,"height":16},"rotation":0,"radius":0,"borders":[],"fills":[{"fillType":"color","color":{"r":255,"g":255,"b":255,"a":1,"color-hex":"#FFFFFF 100%","argb-hex":"#FFFFFFFF","css-rgba":"rgba(255,255,255,1)","ui-color":"(r:1.00 g:1.00 b:1.00 a:1.00)"}}],"shadows":[],"opacity":1,"styleName":"","content":"12:30","color":{"r":0,"g":0,"b":0,"a":1,"color-hex":"#000000 100%","argb-hex":"#FF000000","css-rgba":"rgba(0,0,0,1)","ui-color":"(r:0.00 g:0.00 b:0.00 a:1.00)"},"fontSize":14,"fontFace":"Roboto-Medium","textAlign":"right","letterSpacing":0,"lineHeight":16,"css":["font-family: Roboto-Medium;","font-size: 14px;","color: #000000;"]},{"objectID":"EA577749-950A-4B95-AE91-1471809E4D5C","type":"shape","name":"bounds","rect":{"x":317.3,"y":4,"width":16,"height":16},"rotation":0,"radius":0,"borders":[],"fills":[],"shadows":[],"opacity":1,"styleName":""},{"objectID":"04509B03-1C82-4E70-A60B-563CB5EFDEED","type":"shape","name":"Shape","rect":{"x":320.3,"y":5,"width":9,"height":14},"rotation":0,"radius":0,"borders":[],"fills":[{"fillType":"color","color":{"r":255,"g":255,"b":255,"a":1,"color-hex":"#FFFFFF 100%","argb-hex":"#FFFFFFFF","css-rgba":"rgba(255,255,255,1)","ui-color":"(r:1.00 g:1.00 b:1.00 a:1.00)"}}],"shadows":[],"opacity":1,"styleName":"","css":["background: #FFFFFF;"]},{"objectID":"7EBD03E0-7CF8-4DF4-84D6-87FC9A84FB1E","type":"shape","name":"bounds","rect":{"x":296,"y":4,"width":16,"height":16},"rotation":0,"radius":0,"borders":[],"fills":[],"shadows":[],"opacity":1,"styleName":""},{"objectID":"CBB32A07-0D54-40D4-A69F-2B64CBF676E5","type":"shape","name":"Shape","rect":{"x":296,"y":5,"width":14,"height":14},"rotation":0,"radius":0,"borders":[],"fills":[{"fillType":"color","color":{"r":255,"g":255,"b":255,"a":1,"color-hex":"#FFFFFF 100%","argb-hex":"#FFFFFFFF","css-rgba":"rgba(255,255,255,1)","ui-color":"(r:1.00 g:1.00 b:1.00 a:1.00)"}}],"shadows":[],"opacity":1,"styleName":"","css":["background: #FFFFFF;"]},{"objectID":"1C63ECF8-A21C-468D-A2E0-36C0B9689898","type":"shape","name":"bounds","rect":{"x":275.7,"y":4,"width":16,"height":16},"rotation":0,"radius":0,"borders":[],"fills":[],"shadows":[],"opacity":1,"styleName":""},{"objectID":"7A5D021E-5761-4B5B-A926-8A58D348CA3B","type":"shape","name":"Shape","rect":{"x":274.7,"y":5,"width":18,"height":14},"rotation":0,"radius":0,"borders":[],"fills":[{"fillType":"color","color":{"r":255,"g":255,"b":255,"a":1,"color-hex":"#FFFFFF 100%","argb-hex":"#FFFFFFFF","css-rgba":"rgba(255,255,255,1)","ui-color":"(r:1.00 g:1.00 b:1.00 a:1.00)"}}],"shadows":[],"opacity":1,"styleName":"","css":["background: #FFFFFF;"]}],"notes":[{"rect":{"x":189,"y":104,"width":160,"height":17},"note":"白色圓圈是給使用者上傳大頭貼的部分"}],"pageName":"Page 1","pageObjectID":"D526FE0C-BCEE-4C14-AAE0-85B6CF2F2B53","name":"會員專區-edit","slug":"page-1-會員專區-edit","objectID":"A12A63E4-41D7-454D-8515-6F04B757307C","width":384,"height":640,"imagePath":"preview/page-1-%E6%9C%83%E5%93%A1%E5%B0%88%E5%8D%80-edit.png"}],"slices":[{"name":"Icon/menu","objectID":"583EEB53-0298-4464-92ED-E6D612EDCB21","rect":{"x":16,"y":40,"width":24,"height":24},"exportable":[{"name":"Icon/back","format":"png","path":"Icon/back.png"}]},{"name":"Group","objectID":"050B2930-92B3-47FC-BBB6-9AF41961619D","rect":{"x":133,"y":120,"width":118,"height":118},"exportable":[{"name":"Group","format":"png","path":"Group.png"}]},{"name":"Icon/upload","objectID":"89DEE2A5-F687-40A7-B832-7523F9C4FF41","rect":{"x":231.4,"y":218.4,"width":19.2,"height":19.2},"exportable":[{"name":"Icon/upload","format":"png","path":"Icon/upload.png"}]},{"name":"img_father","objectID":"437D31D7-4787-4F90-91BD-768E9DBFBBB4","rect":{"x":56,"y":444,"width":40,"height":40},"exportable":[{"name":"img_father","format":"png","path":"img_father.png"}]},{"name":"img_girl","objectID":"693B6B83-6463-47B7-ACCB-B9F1AB380A38","rect":{"x":205,"y":444,"width":40,"height":40},"exportable":[{"name":"img_girl","format":"png","path":"img_girl.png"}]},{"name":"Icon/person","objectID":"1E2AD092-03B3-434E-8F95-86852CD7C4F4","rect":{"x":64,"y":284,"width":24,"height":24},"exportable":[{"name":"Icon/person_white","format":"png","path":"Icon/person_white.png"}]},{"name":"Icon/person","objectID":"7F0D17CB-E802-4210-AAA2-933E3AF012D9","rect":{"x":64,"y":340,"width":24,"height":24},"exportable":[{"name":"Icon/calender","format":"png","path":"Icon/calender.png"}]},{"name":"Icon/person","objectID":"FB231F2C-28DD-4E3E-8AAF-1BD6FA3DA07F","rect":{"x":64,"y":396,"width":24,"height":24},"exportable":[{"name":"Icon/address","format":"png","path":"Icon/address.png"}]}],"colors":[]}) });
     -->
     </script>
   </head>

diff --git a/index.html b/index.html
@@ -4,6 +4,7 @@
  
     <meta charset="UTF-8">
     <link href="css/bootstrap.min.css" rel="stylesheet">
+    <link href="css/style.css" rel="stylesheet">
     <meta name="viewport" content="width=device-width, initial-scale=1">
 
 </head>
@@ -175,4 +176,6 @@
         </div>
         <!-- page_2 -->
     </body>
+    </html>
+
         

diff --git a/css/style.css b/css/style.css
@@ -1,0 +1,10 @@
+.test {
+background: -webkit-linear-gradient(top, #1e5799 0%,#2989d8 50%,#207cca 51%,#7db9e8 100%); /* Chrome10-25,Safari5.1-6 */
+
+border-radius: 100px;
+width: 300px;
+height: 300px;
+border: 10px solid #000000;
+border-color: -webkit-linear-gradient(top, #1e5799 0%,#2989d8 50%,#207cca 51%,#7db9e8 100%); 
+
+}
